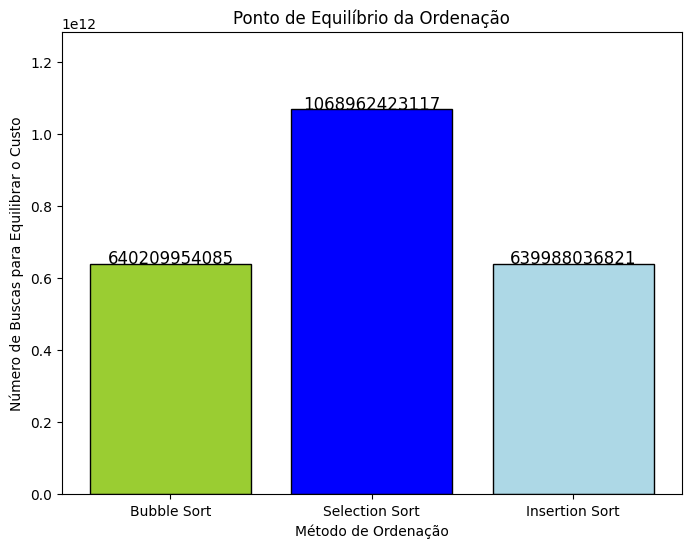
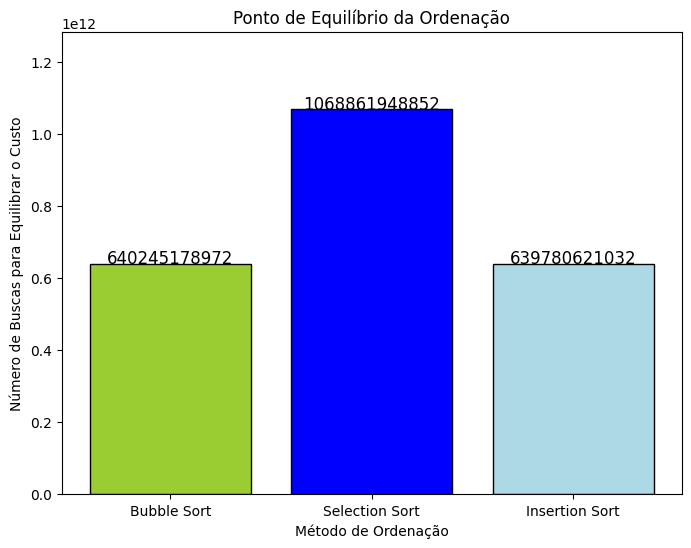
Gráfico correto agora, grafico_de_todos

diff --git a/estatistica.py b/estatistica.py
@@ -40,7 +40,7 @@ teste_400 = processar_arquivo("testes/Vetor_400k.txt")
 teste_800 = processar_arquivo("testes/Vetor_800k.txt", encoding="utf-16")
 teste_16M = processar_arquivo("testes/Vetor_1,6M.txt")
 
-def plotarGraficos(arquivo, nome_identificador):
+def converterParaDF(arquivo):
     # Média das listas que formam as linhas
     for i, linha in enumerate(arquivo):
         for j, coluna in enumerate(linha):
@@ -48,30 +48,56 @@ def plotarGraficos(arquivo, nome_identificador):
 
     # Criando os dataframes
     df = pd.DataFrame(arquivo, columns=["Bubble Sort", "Selection Sort", "Insertion Sort"])
+    
+    return df
 
+df_100 = converterParaDF(teste_100)
+df_200 = converterParaDF(teste_200)
+df_400 = converterParaDF(teste_400)
+df_800 = converterParaDF(teste_800)
+df_16M = converterParaDF(teste_16M)
+dataframes = (df_100, df_200, df_400, df_800, df_16M)
+
+def plotarGraficos(dataframes, nome_identificador):
     # Criando os gráficos
-    categorias = ['Média Bubble Sort', 'Média Selection Sort', 'Média Insertion Sort']
-    dados = [df.iloc[0], df.iloc[1], df.iloc[2]]
-    cores = ["cyan", "blue", "lightblue"]
-    titulos = ["Quantidade de trocas na Busca Linear", "Quantidade de Ordenações", "Quantidade de trocas na Busca Binária"]
+    vetores_labels = ['100k', '200k', '400k', '800k', '1.6M']
+    vetores_valores = [100000, 200000, 400000, 800000, 1600000]
+    dados_bubble = [] 
+    dados_selection = []
+    dados_insertion = []
 
-    # Posições das barras no eixo X
-    x = np.arange(len(categorias))
+    for i, valor in enumerate(dataframes): 
+        dados_bubble.append(dataframes[i].iloc[1]['Bubble Sort'])
+        dados_selection.append(dataframes[i].iloc[1]['Selection Sort'])
+        dados_insertion.append(dataframes[i].iloc[1]['Insertion Sort'])
 
-    # Criando os subgráficos de barras agrupadas
-    fig, axes = plt.subplots(1, 3, figsize=(18, 5))
-    for i, ax in enumerate(axes):
-        ax.bar(categorias, dados[i], color=cores[i], edgecolor="black")
-        ax.set_title(titulos[i])
-        ax.set_ylabel("Quantidade")
-        ax.set_ylim(0, max(dados[i]) * 1.2)
-        step = max(dados[i] / 8)
-        ax.set_yticks(np.arange(0, max(dados[i]) + step * 2, step))
-        ax.grid()
+    y_bubble = np.poly1d(np.polyfit(vetores_valores, dados_bubble, 2))
+    y_selection = np.poly1d(np.polyfit(vetores_valores, dados_selection, 2))
+    y_insertion = np.poly1d(np.polyfit(vetores_valores, dados_insertion, 2))
+    
+    x_vals = np.linspace(min(vetores_valores), max(vetores_valores), 500)
 
+    plt.figure(figsize=(10, 6))
+    plt.plot(vetores_valores, dados_bubble, 'o', label='Bubble Sort (dados)')
+    plt.plot(x_vals, y_bubble(x_vals), '-', label='Bubble Sort (parábola)')
+
+    plt.plot(vetores_valores, dados_selection, 'o', label='Selection Sort (dados)')
+    plt.plot(x_vals, y_selection(x_vals), '-', label='Selection Sort (parábola)')
+
+    plt.plot(vetores_valores, dados_insertion, 'o', label='Insertion Sort (dados)')
+    plt.plot(x_vals, y_insertion(x_vals), '-', label='Insertion Sort (parábola)')
+
+    plt.xticks(vetores_valores, vetores_labels)
+
+    plt.xlabel("Tamanho do Vetor")
+    plt.ylabel("Ordenações")
+    plt.title("Quantidade de Ordenações por Tamanho de Vetor")
+    plt.legend()
+    plt.grid(True)
     plt.tight_layout()
-    plt.savefig(f'./graficos/grafico_de_medias_{nome_identificador}.png', bbox_inches='tight')
+    plt.savefig(f'./graficos/grafico_de_{nome_identificador}.png', bbox_inches='tight')
 
+def plotarGraficos_equilibrio(df, nome_identificador):
     # Fazendo gráfico para ponto de equilíbrio
     custo_ordenacao_bubble = df.iloc[1, 0]
     custo_ordenacao_selection = df.iloc[1, 1]
@@ -107,8 +133,9 @@ def plotarGraficos(arquivo, nome_identificador):
 
     plt.savefig(f'./graficos/ponto_de_equilibrio_{nome_identificador}.png', bbox_inches='tight')
 
-plotarGraficos(teste_100, "100K")
-plotarGraficos(teste_200, "200K")
-plotarGraficos(teste_400, "400K")
-plotarGraficos(teste_800, "800K")
-plotarGraficos(teste_16M, "1.6M")
+plotarGraficos(dataframes, "todos")
+plotarGraficos_equilibrio(df_100, "100K")
+plotarGraficos_equilibrio(df_200, "200K")
+plotarGraficos_equilibrio(df_400, "400K")
+plotarGraficos_equilibrio(df_800, "800K")
+plotarGraficos_equilibrio(df_16M, "1.6M")
